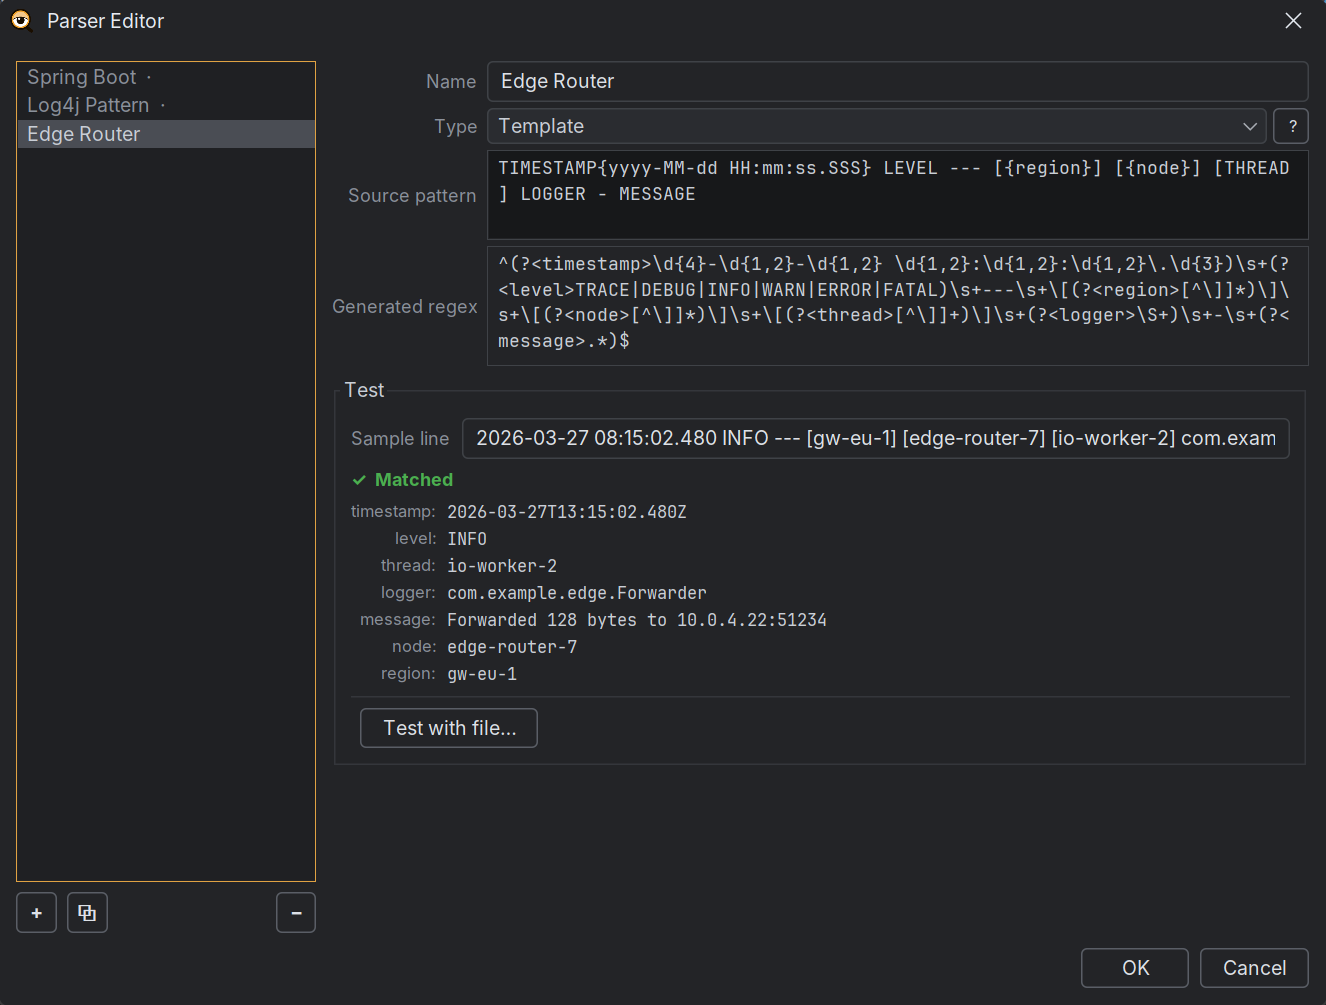
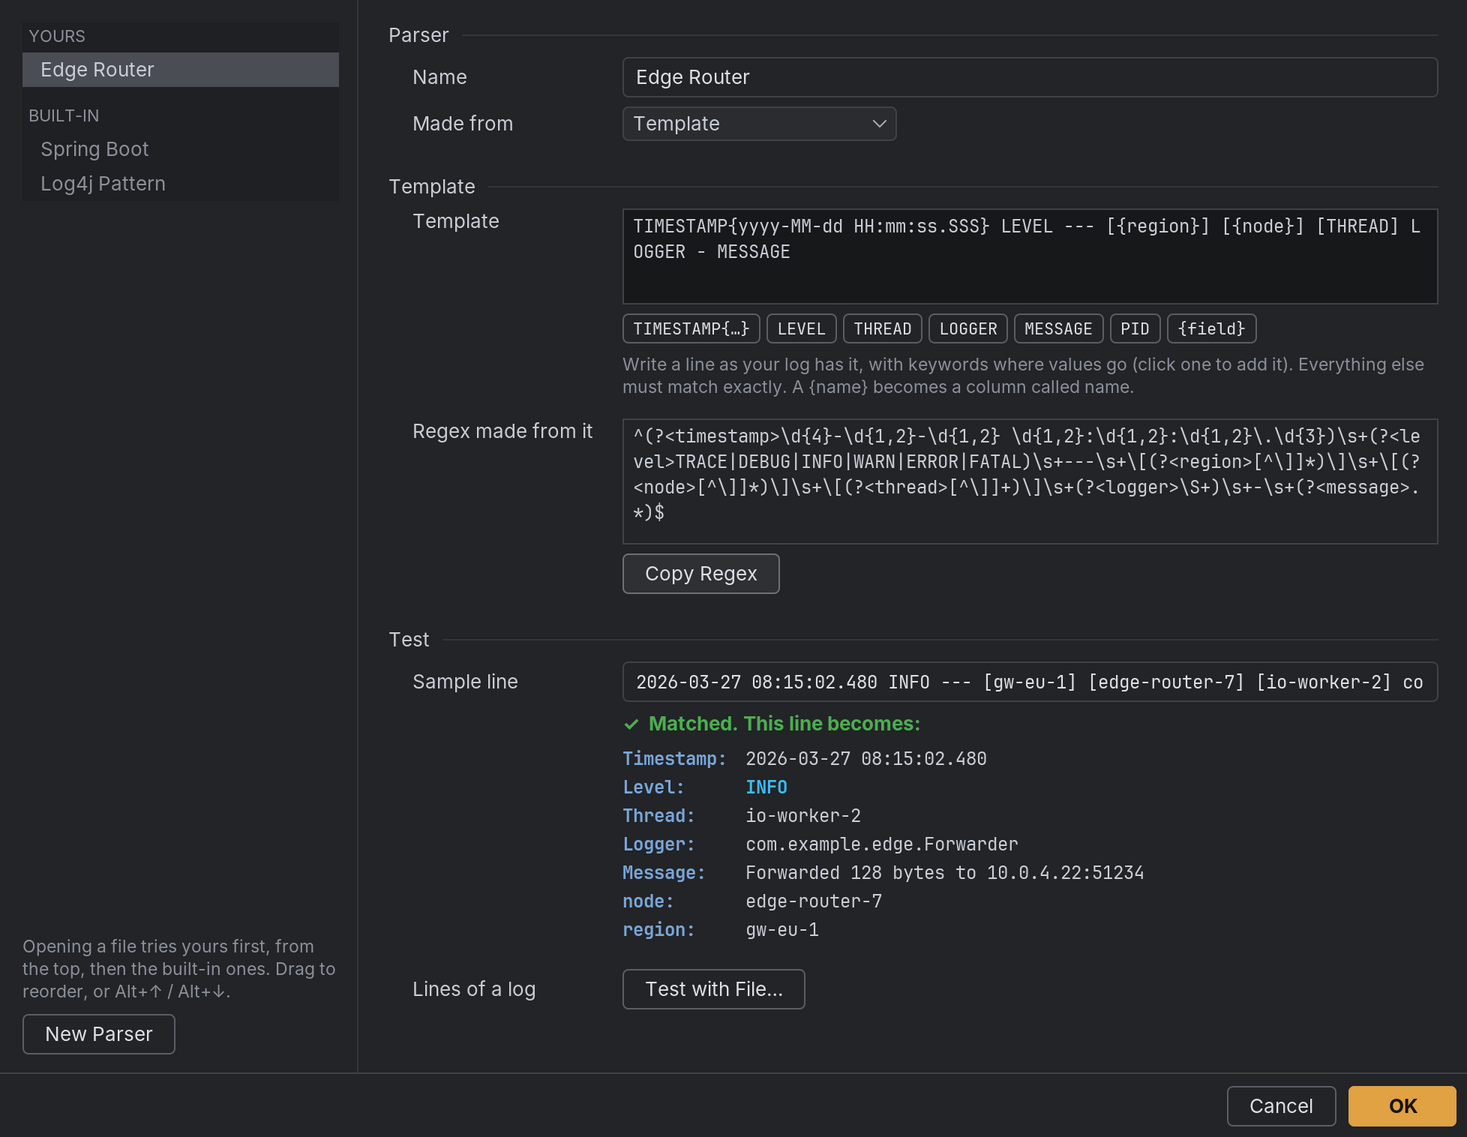
New Parser Editor screenshot
The screenshot scene selects the seeded Edge Router parser (the first under
Yours; the list's last row is now a built-in). The editor opens 40px taller,
so its form doesn't scroll at the default size.

Claude-Session: https://claude.ai/code/session_01RZpUTqdW5DMEwXrRYtXG7H

diff --git a/clouseau-ui/src/test/java/com/droidenx/clouseau/ui/ScreenshotTool.java b/clouseau-ui/src/test/java/com/droidenx/clouseau/ui/ScreenshotTool.java
@@ -157,9 +157,10 @@ public final class ScreenshotTool {
         SwingUtilities.invokeLater(() -> new ParserEditorDialog(frame, null).setVisible(true));
         JDialog dialog = waitForDialog();
         onEdt(() -> {
+            // The seeded Edge Router parser: the first under YOURS (row 0 is the group title).
             @SuppressWarnings("unchecked")
             JList<Object> list = find(dialog, JList.class, l -> true);
-            list.setSelectedIndex(list.getModel().getSize() - 1);
+            list.setSelectedIndex(1);
             return null;
         });
         settle(500);

diff --git a/clouseau-ui/src/main/java/com/droidenx/clouseau/ui/ParserEditorDialog.java b/clouseau-ui/src/main/java/com/droidenx/clouseau/ui/ParserEditorDialog.java
@@ -126,7 +126,7 @@ public final class ParserEditorDialog extends JDialog {
         root.add(buildButtonBar(), BorderLayout.SOUTH);
         setContentPane(root);
 
-        setSize(980, 720);
+        setSize(980, 760);
         setMinimumSize(new Dimension(760, 560));
         setLocationRelativeTo(owner);
         setDefaultCloseOperation(DO_NOTHING_ON_CLOSE);
